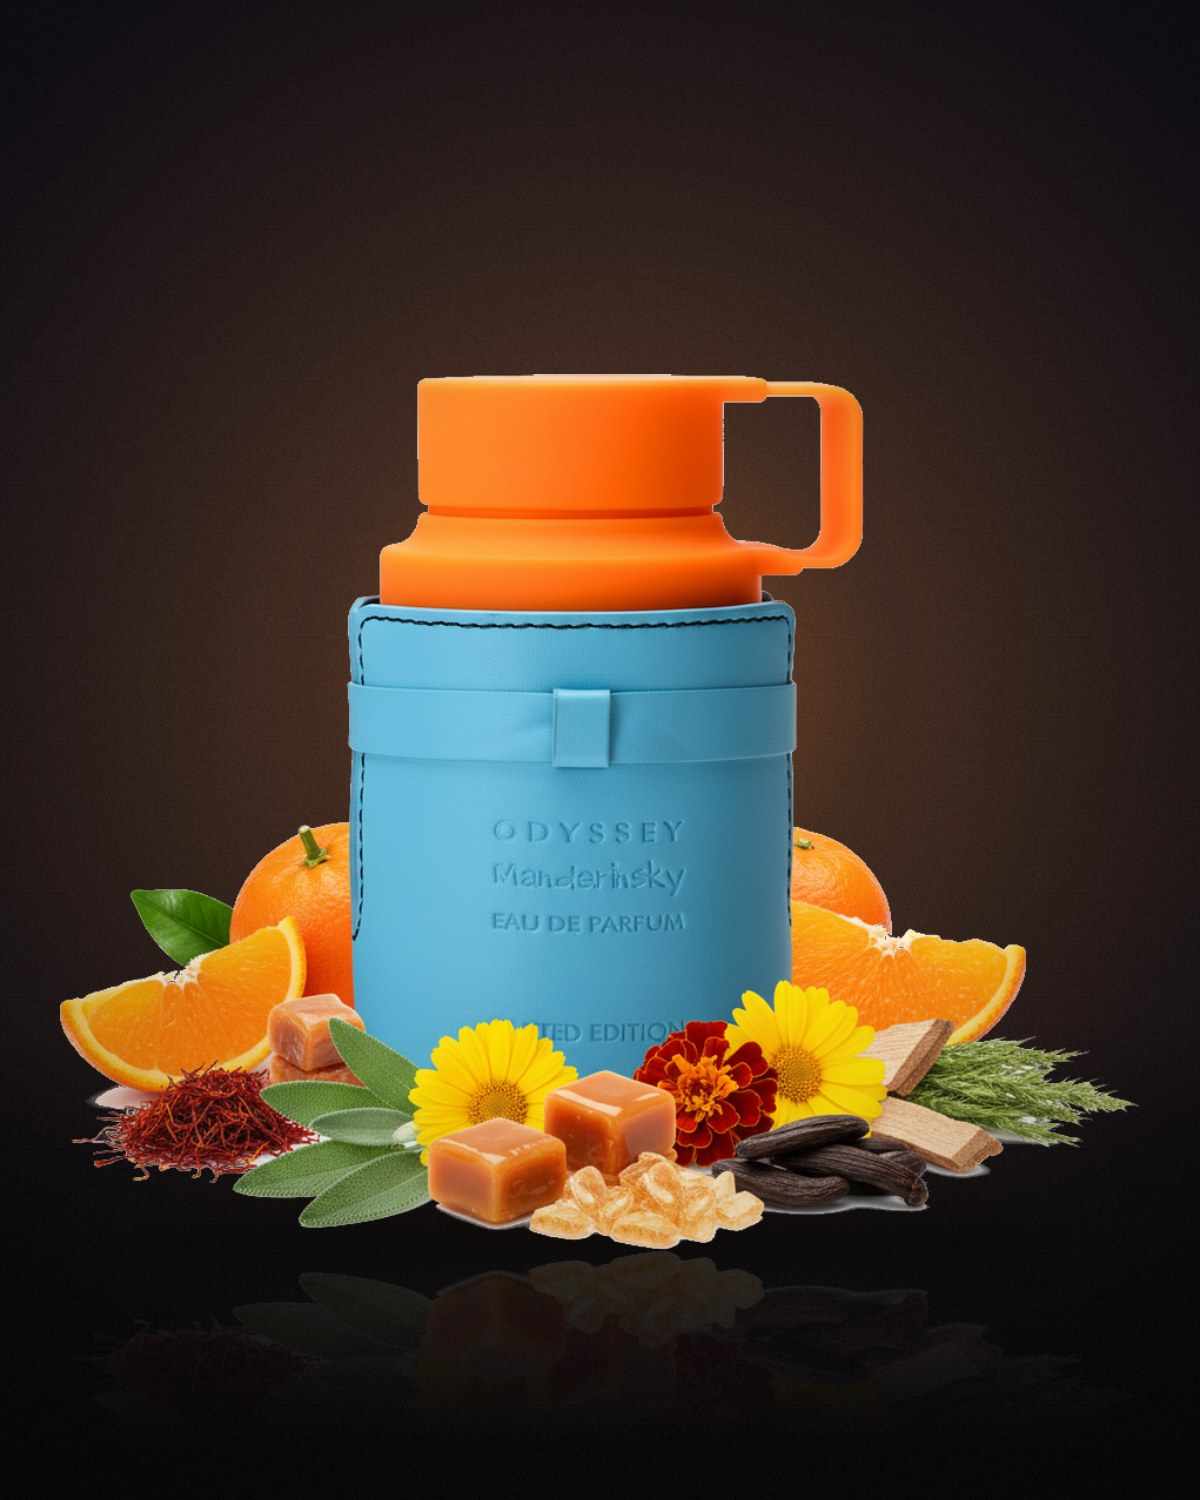
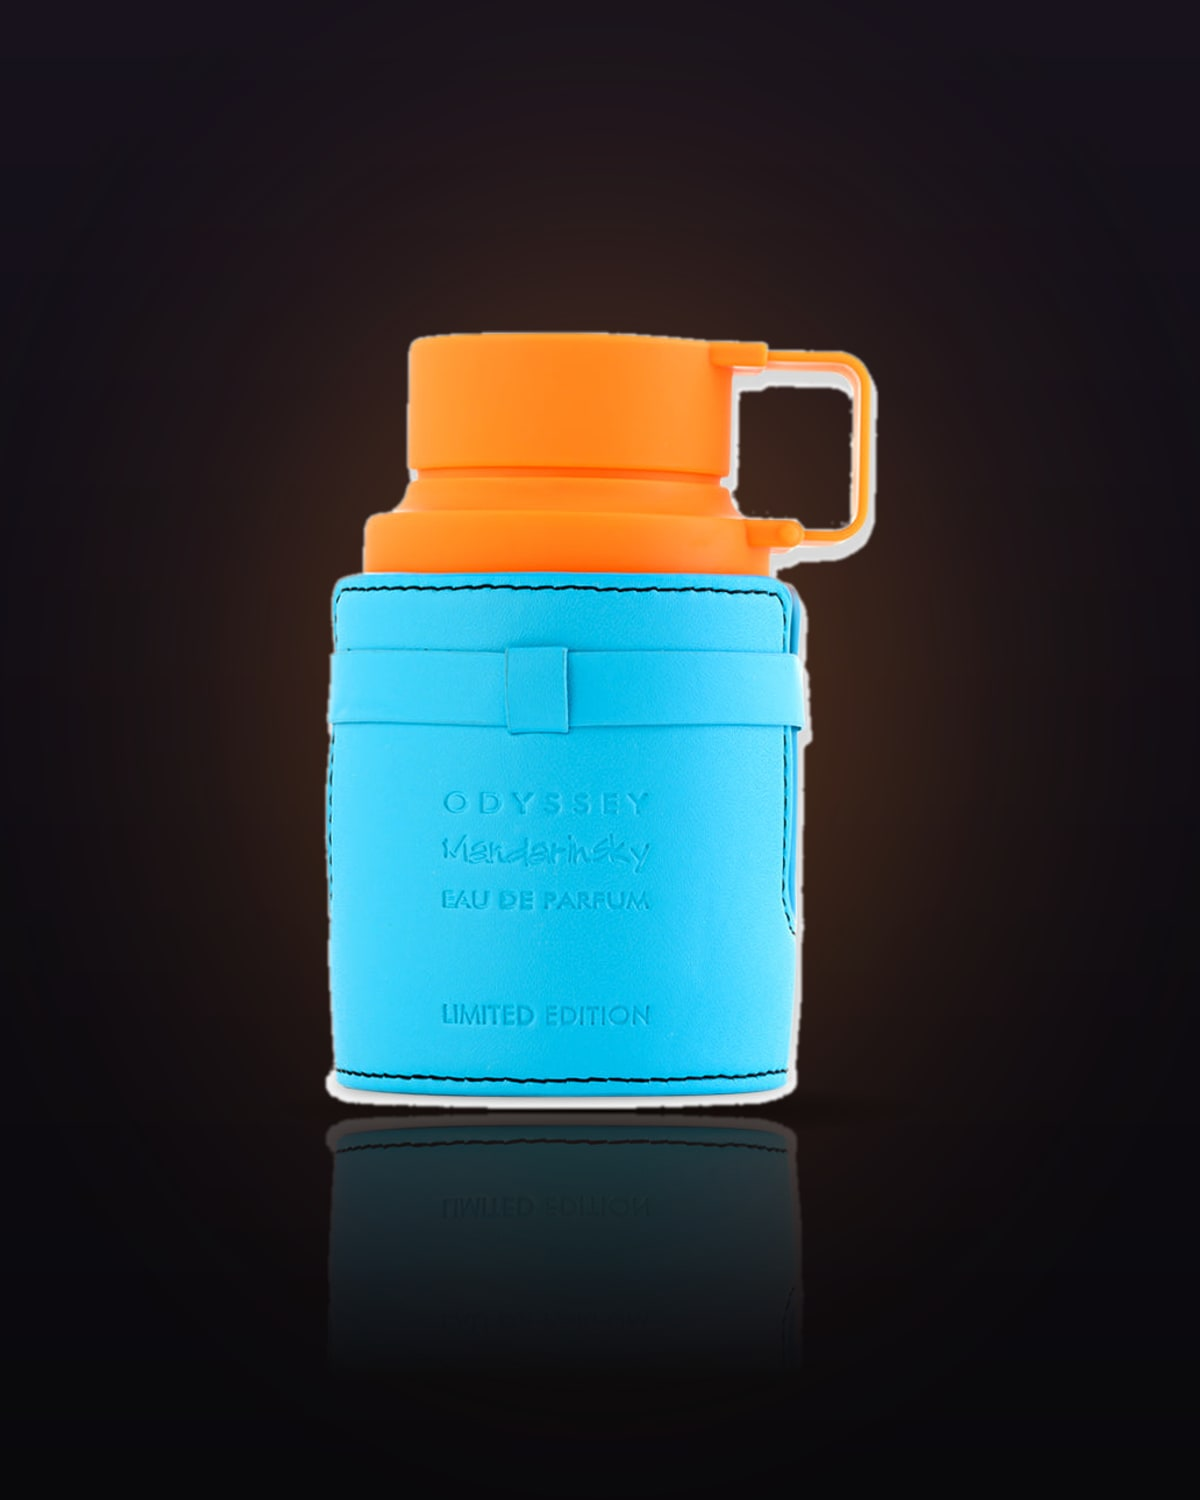
Clean bottle-only photos for all ten scents; Hombre/Mujer filter; shared decant photo
- Product photos: official bottle shots on the store's dark backdrop,
  no ingredients around them, same framing for every fragrance
- /productos/: «Para» filter (Hombre, Mujer, Solo unisex; unisex scents
  appear under both) with ?para= in the URL, plus links in the mega menu
- New products get the shared decant photo by default
- Product counts in copy follow the catalog instead of saying «seis»

diff --git a/src/data/products.ts b/src/data/products.ts
@@ -45,14 +45,15 @@ export const FORMATS: { id: FormatId; size: string; kind: 'Decant' | 'Frasco'; d
   { id: '100', size: '100 ml', kind: 'Frasco', detail: 'Original sellado' },
 ];
 
-export const products: Product[] = [
+// every product shares the same decant photo; set `decant` on an entry only to override it
+const catalog: (Omit<Product, 'decant'> & { decant?: ImageMetadata })[] = [
   {
     slug: 'khamrah', brand: 'Lattafa', name: 'Khamrah', family: 'Gourmand', familyLabel: 'Ámbar especiada · Gourmand', gender: 'Unisex', tag: 'Más vendido',
     accord: 'Canela · Dátiles · Vainilla',
     desc: 'El clásico de Lattafa: una apertura especiada de canela y nuez moscada que da paso a un corazón goloso de dátiles y praliné, sobre un fondo cálido de vainilla, haba tonka y benjuí. Gran presencia, ideal para la noche y los meses fríos.',
     notes: { top: ['Canela', 'Nuez moscada', 'Bergamota'], heart: ['Dátiles', 'Praliné', 'Nardo'], base: ['Vainilla', 'Haba tonka', 'Benjuí', 'Amberwood'] },
     meters: [{ label: 'Duración', value: 'Alta', pct: 85 }, { label: 'Proyección', value: 'Alta', pct: 80 }, { label: 'Dulzor', value: 'Marcado', pct: 75 }, { label: 'Ideal para', value: 'Noche · frío', pct: 70 }],
-    img: khamrah, decant: decantPhoto, related: ['qahwa', 'ninepm', 'spectra'],
+    img: khamrah, related: ['qahwa', 'ninepm', 'spectra'],
   },
   {
     slug: 'khamrah-qahwa', brand: 'Lattafa', name: 'Khamrah Qahwa', family: 'Gourmand', familyLabel: 'Gourmand · Café', gender: 'Unisex', tag: 'Favorito',
@@ -60,7 +61,7 @@ export const products: Product[] = [
     desc: 'La versión con café del Khamrah: canela, cardamomo y jengibre abren paso a un corazón de praliné y frutas confitadas, con un fondo tostado de café, vainilla y haba tonka. Envolvente y muy reconocible.',
     notes: { top: ['Canela', 'Cardamomo', 'Jengibre'], heart: ['Praliné', 'Frutas confitadas', 'Flores blancas'], base: ['Café', 'Vainilla', 'Haba tonka', 'Benjuí', 'Almizcle'] },
     meters: [{ label: 'Duración', value: 'Alta', pct: 85 }, { label: 'Proyección', value: 'Media-alta', pct: 72 }, { label: 'Dulzor', value: 'Marcado', pct: 78 }, { label: 'Ideal para', value: 'Tarde · noche', pct: 68 }],
-    img: qahwa, decant: decantPhoto, related: ['khamrah', 'ninepm', 'mandarin'],
+    img: qahwa, related: ['khamrah', 'ninepm', 'mandarin'],
   },
   {
     slug: '9-pm', brand: 'Afnan', name: '9 PM', family: 'Nocturna', familyLabel: 'Ámbar vainillada · Nocturna', gender: 'Masculina', tag: 'Para la noche',
@@ -68,7 +69,7 @@ export const products: Product[] = [
     desc: 'Pensado para la noche: manzana, canela, lavanda y bergamota abren paso a azahar y lirio de los valles, sobre un fondo envolvente de vainilla, haba tonka, ámbar y pachulí.',
     notes: { top: ['Manzana', 'Canela', 'Lavanda', 'Bergamota'], heart: ['Azahar', 'Lirio de los valles'], base: ['Vainilla', 'Haba tonka', 'Ámbar', 'Pachulí'] },
     meters: [{ label: 'Duración', value: 'Alta', pct: 80 }, { label: 'Proyección', value: 'Alta', pct: 82 }, { label: 'Dulzor', value: 'Marcado', pct: 72 }, { label: 'Ideal para', value: 'Noche', pct: 85 }],
-    img: ninepm, decant: decantPhoto, related: ['khamrah', 'spectra', 'qahwa'],
+    img: ninepm, related: ['khamrah', 'spectra', 'qahwa'],
   },
   {
     slug: 'odyssey-mandarin-sky', brand: 'Armaf', name: 'Odyssey Mandarin Sky', family: 'Ámbar especiada', familyLabel: 'Ámbar especiada · Cítrica', gender: 'Masculina',
@@ -76,7 +77,7 @@ export const products: Product[] = [
     desc: 'Mandarina y naranja con un toque de azafrán y salvia, sobre un corazón de caramelo y haba tonka, y un fondo de vetiver, cedro y ambroxan. Solar, dulce y magnético.',
     notes: { top: ['Salvia', 'Mandarina', 'Naranja', 'Azafrán'], heart: ['Caramelo', 'Haba tonka', 'Tagete'], base: ['Vetiver', 'Cedro', 'Ambroxan'] },
     meters: [{ label: 'Duración', value: 'Media-alta', pct: 72 }, { label: 'Proyección', value: 'Media-alta', pct: 70 }, { label: 'Dulzor', value: 'Medio', pct: 60 }, { label: 'Ideal para', value: 'Día · salidas', pct: 65 }],
-    img: mandarin, decant: decantPhoto, related: ['spectra', 'khamrah', 'hawas'],
+    img: mandarin, related: ['spectra', 'khamrah', 'hawas'],
   },
   {
     slug: 'odyssey-spectra', brand: 'Armaf', name: 'Odyssey Spectra', family: 'Ámbar especiada', familyLabel: 'Ámbar especiada · Unisex', gender: 'Unisex', tag: 'Nuevo',
@@ -84,7 +85,7 @@ export const products: Product[] = [
     desc: 'Manzana y bergamota envueltas en canela, con un corazón floral de azahar, lirio de los valles y lavanda, que descansa sobre vainilla, tabaco, pachulí y ámbar. Versátil y fácil de llevar.',
     notes: { top: ['Manzana', 'Bergamota', 'Canela'], heart: ['Azahar', 'Lirio de los valles', 'Lavanda'], base: ['Vainilla', 'Haba tonka', 'Tabaco', 'Pachulí', 'Ámbar'] },
     meters: [{ label: 'Duración', value: 'Media-alta', pct: 70 }, { label: 'Proyección', value: 'Media', pct: 62 }, { label: 'Dulzor', value: 'Medio', pct: 58 }, { label: 'Ideal para', value: 'Todo el año', pct: 75 }],
-    img: spectra, decant: decantPhoto, related: ['ninepm', 'mandarin', 'khamrah'],
+    img: spectra, related: ['ninepm', 'mandarin', 'khamrah'],
   },
   {
     slug: 'hawas-ice', brand: 'Rasasi', name: 'Hawas Ice', family: 'Fresca', familyLabel: 'Fresca · Acuática', gender: 'Masculina', tag: 'Para el calor',
@@ -92,7 +93,7 @@ export const products: Product[] = [
     desc: 'Manzana helada, limón, bergamota y anís estrellado sobre un corazón de azahar, ciruela y cardamomo, con un fondo de musgo, madera de deriva, ámbar y almizcle. Frescura intensa sin perder carácter.',
     notes: { top: ['Manzana helada', 'Limón', 'Bergamota', 'Anís estrellado'], heart: ['Azahar', 'Ciruela', 'Cardamomo'], base: ['Musgo', 'Madera de deriva', 'Ámbar', 'Almizcle'] },
     meters: [{ label: 'Duración', value: 'Media-alta', pct: 70 }, { label: 'Proyección', value: 'Alta', pct: 78 }, { label: 'Dulzor', value: 'Bajo', pct: 30 }, { label: 'Ideal para', value: 'Día · calor', pct: 80 }],
-    img: hawas, decant: decantPhoto, related: ['mandarin', 'spectra', 'ninepm'],
+    img: hawas, related: ['mandarin', 'spectra', 'ninepm'],
   },
   {
     slug: 'asad-clasico', brand: 'Lattafa', name: 'Asad', family: 'Ámbar especiada', familyLabel: 'Ámbar especiada · Amaderada', gender: 'Masculina', tag: 'Nuevo',
@@ -100,7 +101,7 @@ export const products: Product[] = [
     desc: 'Intenso y seguro: pimienta negra, piña y tabaco en la salida, un corazón de café, pachulí e iris, y un fondo cálido de vainilla, ámbar, maderas secas, benjuí y láudano. Hecho para dejar huella.',
     notes: { top: ['Pimienta negra', 'Piña', 'Tabaco'], heart: ['Café', 'Pachulí', 'Iris'], base: ['Vainilla', 'Ámbar', 'Maderas secas', 'Benjuí', 'Láudano'] },
     meters: [{ label: 'Duración', value: 'Alta', pct: 80 }, { label: 'Proyección', value: 'Alta', pct: 78 }, { label: 'Dulzor', value: 'Medio', pct: 55 }, { label: 'Ideal para', value: 'Noche · frío', pct: 75 }],
-    img: asad, decant: decantPhoto, related: ['bourbon', 'cdni', 'khamrah'],
+    img: asad, related: ['bourbon', 'cdni', 'khamrah'],
   },
   {
     slug: 'asad-bourbon', brand: 'Lattafa', name: 'Asad Bourbon', family: 'Gourmand', familyLabel: 'Gourmand · Especiada', gender: 'Masculina', tag: 'Nuevo',
@@ -108,7 +109,7 @@ export const products: Product[] = [
     desc: 'La versión más golosa del Asad: pimienta rosa, lavanda y ciruela mirabel abren paso a un corazón de cacao, davana y nuez moscada, sobre un fondo de vainilla bourbon, ámbar y vetiver. Cálido, especiado y elegante.',
     notes: { top: ['Pimienta rosa', 'Lavanda', 'Ciruela mirabel'], heart: ['Cacao', 'Davana', 'Nuez moscada'], base: ['Vainilla bourbon', 'Ámbar', 'Vetiver'] },
     meters: [{ label: 'Duración', value: 'Alta', pct: 80 }, { label: 'Proyección', value: 'Media-alta', pct: 70 }, { label: 'Dulzor', value: 'Marcado', pct: 72 }, { label: 'Ideal para', value: 'Tarde · noche', pct: 70 }],
-    img: asadBourbon, decant: decantPhoto, related: ['asad', 'khamrah', 'qahwa'],
+    img: asadBourbon, related: ['asad', 'khamrah', 'qahwa'],
   },
   {
     slug: 'club-de-nuit-intense-man', brand: 'Armaf', name: 'Club de Nuit Intense Man', family: 'Nocturna', familyLabel: 'Chipre afrutada · Ahumada', gender: 'Masculina', tag: 'Nuevo',
@@ -116,7 +117,7 @@ export const products: Product[] = [
     desc: 'Un clásico moderno: limón, piña, grosella negra, manzana y bergamota en la salida, un corazón ahumado de abedul con jazmín y rosa, y un fondo de almizcle, ámbar gris, pachulí y vainilla. Gran rendimiento y presencia.',
     notes: { top: ['Limón', 'Piña', 'Grosella negra', 'Manzana', 'Bergamota'], heart: ['Abedul', 'Jazmín', 'Rosa'], base: ['Almizcle', 'Ámbar gris', 'Pachulí', 'Vainilla'] },
     meters: [{ label: 'Duración', value: 'Muy alta', pct: 90 }, { label: 'Proyección', value: 'Alta', pct: 85 }, { label: 'Dulzor', value: 'Bajo', pct: 35 }, { label: 'Ideal para', value: 'Noche · salidas', pct: 78 }],
-    img: cdnIntense, decant: decantPhoto, related: ['asad', 'ninepm', 'mandarin'],
+    img: cdnIntense, related: ['asad', 'ninepm', 'mandarin'],
   },
   {
     slug: 'yara-pink', brand: 'Lattafa', name: 'Yara Pink', family: 'Gourmand', familyLabel: 'Gourmand · Floral', gender: 'Femenina', tag: 'Nuevo',
@@ -124,9 +125,11 @@ export const products: Product[] = [
     desc: 'Dulce y cremoso: heliotropo, orquídea y mandarina en la salida, un corazón goloso con frutas tropicales, y un fondo suave de vainilla, almizcle y sándalo. Femenino, alegre y fácil de llevar.',
     notes: { top: ['Heliotropo', 'Orquídea', 'Mandarina'], heart: ['Acorde gourmand', 'Frutas tropicales'], base: ['Vainilla', 'Almizcle', 'Sándalo'] },
     meters: [{ label: 'Duración', value: 'Media-alta', pct: 70 }, { label: 'Proyección', value: 'Media', pct: 62 }, { label: 'Dulzor', value: 'Marcado', pct: 80 }, { label: 'Ideal para', value: 'Día · todo el año', pct: 72 }],
-    img: yaraPink, decant: decantPhoto, related: ['qahwa', 'spectra', 'bourbon'],
+    img: yaraPink, related: ['qahwa', 'spectra', 'bourbon'],
   },
 ];
+
+export const products: Product[] = catalog.map((p) => ({ ...p, decant: p.decant ?? decantPhoto }));
 
 // related ids above use short keys; map them to slugs
 const SHORT: Record<string, string> = {
@@ -137,6 +140,13 @@ const SHORT: Record<string, string> = {
 export const bySlug = (slug: string) => products.find((p) => p.slug === slug);
 export const relatedOf = (p: Product) => p.related.map((k) => bySlug(SHORT[k])!).filter(Boolean);
 export const productUrl = (p: Pick<Product, 'slug'>) => `/productos/${p.slug}/`;
+
+/** «Para quién» filter: unisex scents are listed under both Hombre and Mujer. */
+export const GENDERS: { id: Product['gender']; label: string }[] = [
+  { id: 'Masculina', label: 'Hombre' },
+  { id: 'Femenina', label: 'Mujer' },
+  { id: 'Unisex', label: 'Solo unisex' },
+];
 
 export const FAMILIES: { id: Family; blurb: string; tone: string }[] = [
   { id: 'Gourmand', blurb: 'Dulces, cálidas, adictivas', tone: '#8A4A2A' },
